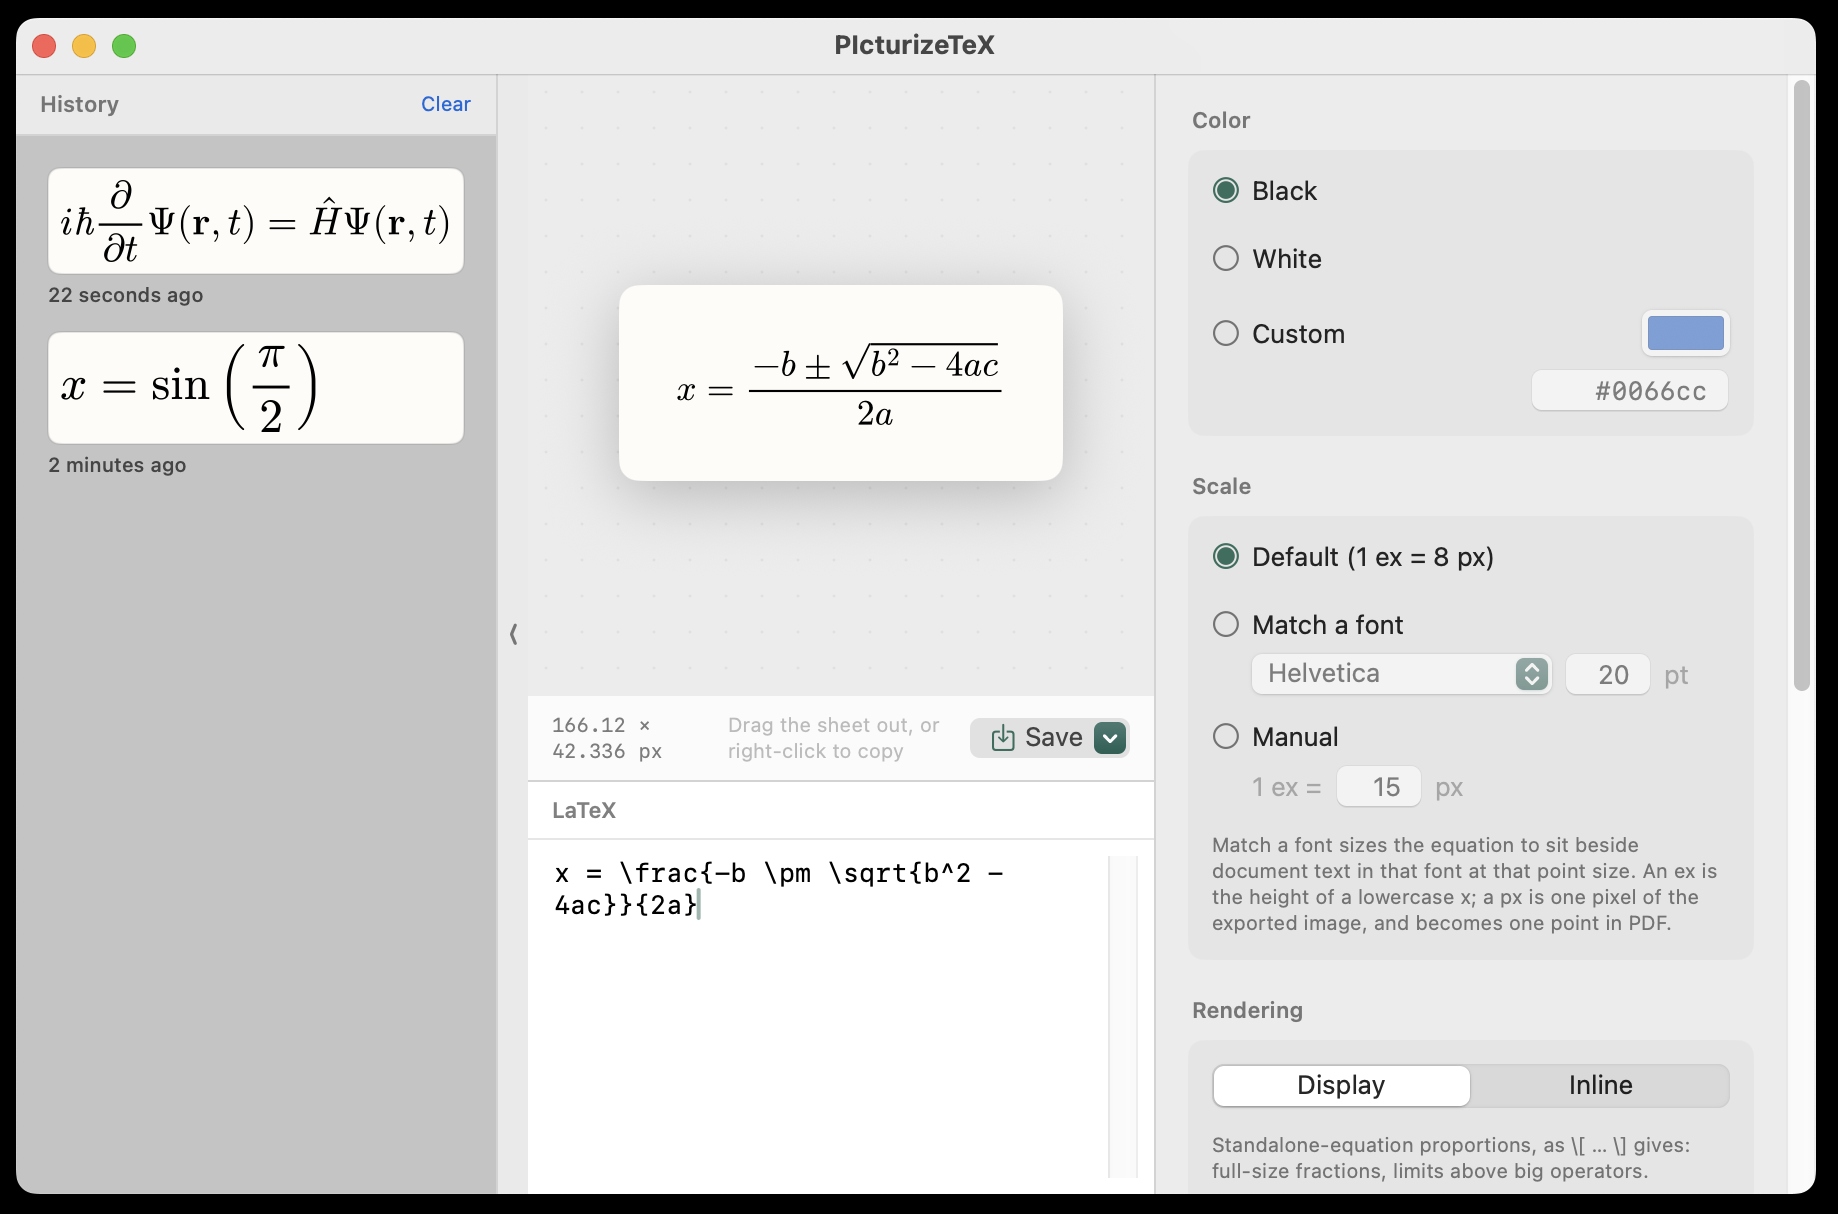
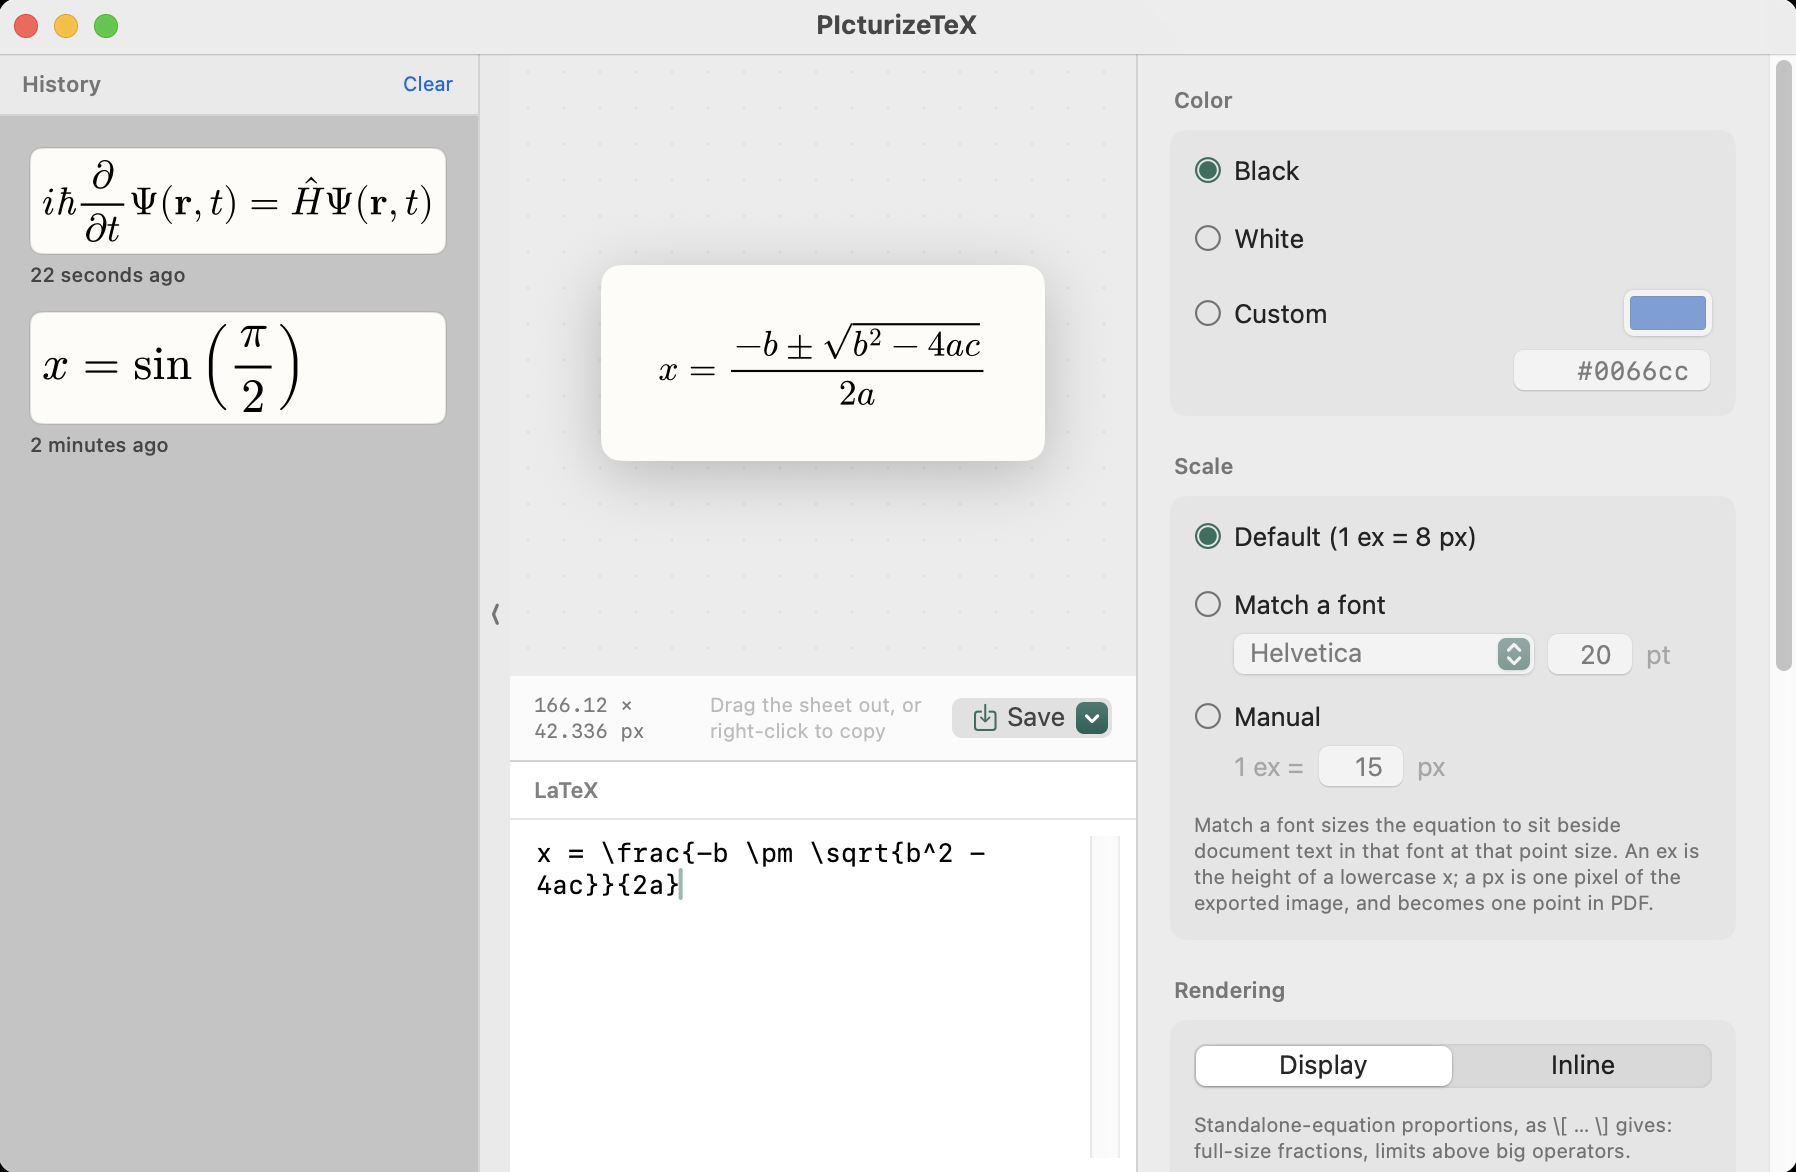
Add GitHub Pages landing page

diff --git a/docs/index.html b/docs/index.html
@@ -1,0 +1,214 @@
+<!DOCTYPE html>
+<html lang="en">
+<head>
+<meta charset="utf-8">
+<meta name="viewport" content="width=device-width, initial-scale=1">
+<title>PIcturizeTeX — LaTeX equations to SVG, PDF &amp; PNG on Mac</title>
+<meta name="description" content="A free, open-source Mac app that converts LaTeX equations to SVG, PDF, and PNG. Live preview, drag and drop into Keynote or Illustrator, menu bar quick access. Fully offline.">
+<link rel="icon" href="icon.png">
+<meta property="og:title" content="PIcturizeTeX — LaTeX equations to SVG, PDF & PNG on Mac">
+<meta property="og:description" content="Free, open-source Mac app: type LaTeX, get a picture. Live preview, drag and drop, menu bar access, fully offline.">
+<meta property="og:image" content="https://hl2199.github.io/PIcturizeTeX/screenshot-main.png">
+<meta property="og:type" content="website">
+<meta property="og:url" content="https://hl2199.github.io/PIcturizeTeX/">
+<style>
+  :root {
+    --paper: #fdfcf9;
+    --desk: #efeeea;
+    --ink: #1f1e1b;
+    --muted: #6b6963;
+    --accent: #2e6e5e;
+    --accent-dark: #245648;
+    --sheet-shadow: 0 18px 40px rgba(0,0,0,.16), 0 4px 12px rgba(0,0,0,.08);
+    --dot: rgba(31,30,27,.10);
+  }
+  @media (prefers-color-scheme: dark) {
+    :root {
+      --paper: #26262b;
+      --desk: #1b1b1f;
+      --ink: #e8e6e1;
+      --muted: #98958d;
+      --accent: #4d9c88;
+      --accent-dark: #63b3a0;
+      --sheet-shadow: 0 18px 40px rgba(0,0,0,.5), 0 4px 12px rgba(0,0,0,.35);
+      --dot: rgba(232,230,225,.09);
+    }
+  }
+  * { margin: 0; padding: 0; box-sizing: border-box; }
+  html { scroll-behavior: smooth; }
+  @media (prefers-reduced-motion: reduce) { html { scroll-behavior: auto; } * { transition: none !important; } }
+  body {
+    font: 17px/1.65 -apple-system, BlinkMacSystemFont, "Segoe UI", sans-serif;
+    color: var(--ink);
+    background: var(--desk);
+    background-image: radial-gradient(var(--dot) 1.2px, transparent 1.2px);
+    background-size: 22px 22px;
+  }
+  h1, h2 { font-family: "Iowan Old Style", "Palatino", Georgia, serif; font-weight: 600; }
+  a { color: var(--accent); }
+  a:focus-visible, .btn:focus-visible { outline: 3px solid var(--accent); outline-offset: 3px; }
+  .wrap { max-width: 880px; margin: 0 auto; padding: 0 24px; }
+
+  /* Hero */
+  header { text-align: center; padding: 72px 0 40px; }
+  header img.icon { width: 112px; height: 112px; }
+  header h1 { font-size: 44px; margin-top: 14px; letter-spacing: .01em; }
+  header .tagline {
+    font-family: "Iowan Old Style", "Palatino", Georgia, serif;
+    font-style: italic; font-size: 22px; color: var(--muted); margin-top: 6px;
+  }
+  .btn {
+    display: inline-block; margin-top: 28px; padding: 13px 30px;
+    background: var(--accent); color: #fff; text-decoration: none;
+    border-radius: 9px; font-weight: 600; font-size: 17px;
+    transition: background .15s ease;
+  }
+  .btn:hover { background: var(--accent-dark); }
+  .fine { font-size: 14px; color: var(--muted); margin-top: 10px; }
+  .fine a { color: var(--muted); }
+
+  /* Paper sheets */
+  .sheet {
+    background: var(--paper); border-radius: 12px; box-shadow: var(--sheet-shadow);
+    overflow: hidden;
+  }
+  .sheet img { display: block; width: 100%; height: auto; }
+  /* The main screenshot is cropped to the bare window, so the page supplies
+     the rounded corners and shadow at a scale that suits the layout. */
+  .hero-shot { margin: 40px auto 0; max-width: 820px; }
+  .hero-shot img {
+    display: block; width: 100%; height: auto;
+    border-radius: 10px; box-shadow: var(--sheet-shadow);
+  }
+
+  /* Sections */
+  section { padding: 64px 0 8px; }
+  section h2 { font-size: 30px; margin-bottom: 24px; text-align: center; }
+
+  .features {
+    display: grid; grid-template-columns: repeat(auto-fit, minmax(240px, 1fr));
+    gap: 14px;
+  }
+  .feature {
+    background: var(--paper); border-radius: 10px; padding: 20px 22px;
+    box-shadow: 0 2px 8px rgba(0,0,0,.06);
+  }
+  .feature h3 { font-size: 16px; margin-bottom: 6px; }
+  .feature p { font-size: 15px; color: var(--muted); }
+  .feature h3::before { content: "π "; color: var(--accent); font-family: Georgia, serif; }
+
+  /* Menu bar split */
+  .split { display: flex; gap: 36px; align-items: center; flex-wrap: wrap; }
+  .split > div { flex: 1 1 300px; }
+  .split .sheet { flex: 1 1 340px; max-width: 480px; }
+  .split p { color: var(--muted); margin-top: 10px; }
+  .split h2 { text-align: left; margin-bottom: 4px; }
+
+  /* Install */
+  .install-card { background: var(--paper); border-radius: 12px; padding: 30px 34px; box-shadow: 0 2px 10px rgba(0,0,0,.06); }
+  .install-card ol { margin: 14px 0 0 22px; }
+  .install-card li { margin-bottom: 10px; }
+  .install-card .note { font-size: 15px; color: var(--muted); margin-top: 16px; }
+  code {
+    font-family: ui-monospace, "SF Mono", Menlo, monospace; font-size: .88em;
+    background: rgba(127,127,127,.13); padding: 2px 6px; border-radius: 5px;
+  }
+
+  footer {
+    text-align: center; padding: 56px 0 48px; color: var(--muted); font-size: 14.5px;
+  }
+  footer nav { margin-bottom: 10px; }
+  footer nav a { margin: 0 10px; }
+</style>
+</head>
+<body>
+
+<header class="wrap">
+  <img class="icon" src="icon.png" alt="PIcturizeTeX icon: a Computer Modern pi on dotted paper" width="112" height="112">
+  <h1>PIcturizeTeX</h1>
+  <p class="tagline">Type LaTeX. Get a picture.</p>
+  <a class="btn" href="https://github.com/hl2199/PIcturizeTeX/releases/latest">Download for macOS</a>
+  <p class="fine">Free &amp; open source · macOS 14+ · Apple Silicon
+    · <a href="https://github.com/hl2199/PIcturizeTeX#build-from-source">or build from source</a></p>
+
+  <div class="hero-shot">
+    <img src="screenshot-main.png" alt="PIcturizeTeX main window: an equation floating on a dot-grid desk, with history and settings panes" width="1796" height="1172">
+  </div>
+</header>
+
+<section class="wrap">
+  <h2>Equations, ready to paste anywhere</h2>
+  <div class="features">
+    <div class="feature">
+      <h3>Live preview</h3>
+      <p>Rendered as you type, at the exact size it will export. Bad TeX never blanks your last good equation.</p>
+    </div>
+    <div class="feature">
+      <h3>Drag it out</h3>
+      <p>Pull the equation straight into Keynote, PowerPoint, Illustrator, or Finder as a file.</p>
+    </div>
+    <div class="feature">
+      <h3>One copy, three formats</h3>
+      <p>Right-click puts PDF, PNG, and SVG on the clipboard together — every app pastes the format it handles best.</p>
+    </div>
+    <div class="feature">
+      <h3>Sized to your document</h3>
+      <p>Match a font at a point size so equations sit naturally beside your text, or set the scale by hand.</p>
+    </div>
+    <div class="feature">
+      <h3>History that remembers TeX</h3>
+      <p>Every exported equation is kept with its source and settings — click to re-edit weeks later.</p>
+    </div>
+    <div class="feature">
+      <h3>Fully offline</h3>
+      <p>Typeset by a bundled MathJax&nbsp;4. No account, no network, no telemetry.</p>
+    </div>
+  </div>
+</section>
+
+<section class="wrap">
+  <div class="split">
+    <div>
+      <h2>In your menu bar</h2>
+      <p>A compact companion lives behind a π in the menu bar — input, preview, color and
+      scale, drag-out and save — for quick equations from any app, even with the main
+      window closed. Toggle it on or off in settings.</p>
+    </div>
+    <div class="sheet">
+      <img src="screenshot-menu-bar.png" alt="The menu bar companion: a small popover with an equation preview and LaTeX input" width="1557" height="1083">
+    </div>
+  </div>
+</section>
+
+<section class="wrap" id="install">
+  <h2>Install</h2>
+  <div class="install-card">
+    <p>Download the zip, unzip it, and drag <strong>PIcturizeTeX.app</strong> into
+    <strong>Applications</strong>.</p>
+    <p class="note"><strong>First launch:</strong> this build isn’t notarized with Apple,
+    so macOS asks you to approve it once:</p>
+    <ol>
+      <li>Open the app — a dialog says it can’t be verified. Click <strong>Done</strong>
+          (not “Move to Trash”).</li>
+      <li>Go to <strong>System Settings → Privacy &amp; Security</strong>, scroll to
+          <em>“PIcturizeTeX was blocked…”</em>, and click <strong>Open Anyway</strong>.</li>
+      <li>Open the app again and click <strong>Open</strong>. That’s it — once, ever.</li>
+    </ol>
+    <p class="note">Prefer not to run a downloaded binary? <code>git clone</code> the
+    repo and run <code>./Scripts/bundle.sh</code> — it builds in about a minute with
+    just the Xcode Command Line Tools.</p>
+  </div>
+</section>
+
+<footer class="wrap">
+  <nav>
+    <a href="https://github.com/hl2199/PIcturizeTeX">GitHub</a>
+    <a href="https://github.com/hl2199/PIcturizeTeX/releases">Releases</a>
+    <a href="https://github.com/hl2199/PIcturizeTeX/blob/main/LICENSE">MIT License</a>
+  </nav>
+  <p>Typeset by <a href="https://www.mathjax.org">MathJax</a> ·
+  inspired by <a href="https://viereck.ch/latex-to-svg/">viereck.ch/latex-to-svg</a></p>
+</footer>
+
+</body>
+</html>